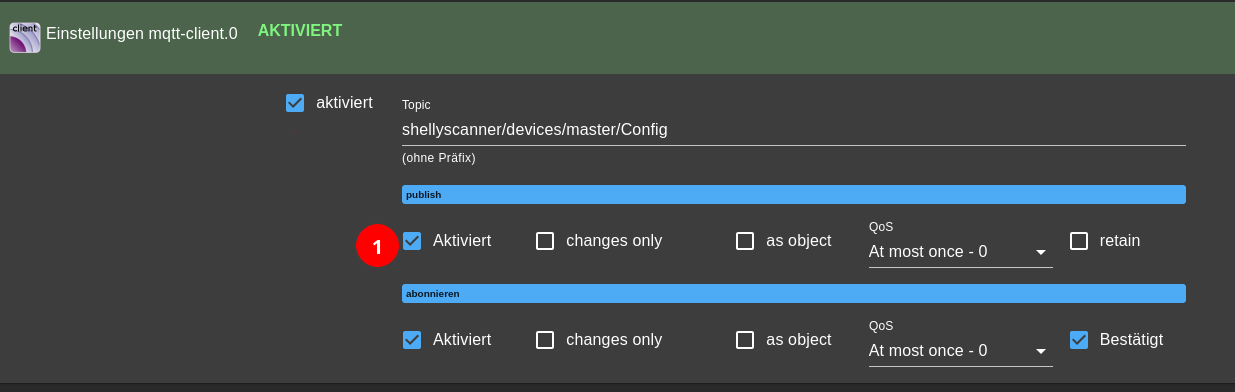
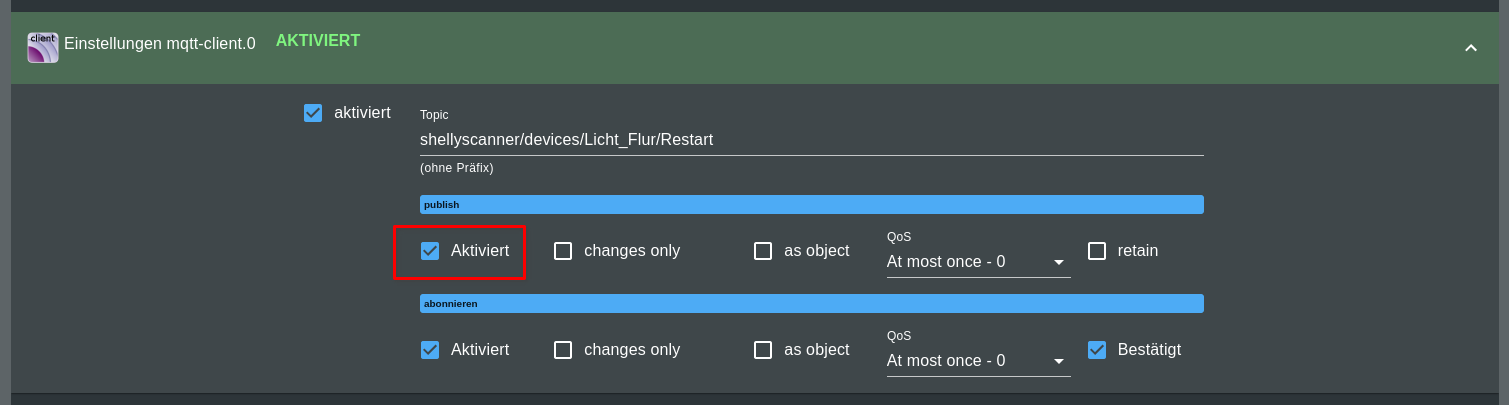
More detailed MQTT explanation

diff --git a/README.md b/README.md
@@ -35,13 +35,15 @@ Damit die States von ioBroker erkannt werden, muss unter der MQTT Instanz eine S
 
 ![ ](pictures/iobroker/010_iobroker_mqtt_subscriptions.png  "ioBroker MQTT")
 
-Für die Steuerung des Shelly, muss publish (1) in ioBroker für ausgehend States aktiviert werden. Hier ein Beispiel:
+Nachdem der Flashprozess - wie in den nachfolgenden Kapiteln beschrieben - durchgeführt wurde, kann die Steuerung des Shelly über die automatisch erstellten ioBroker States erfolgen. Für ausgehende States muss "publish" aktiviert werden. Hier ein Beispiel für einen beliebigen State:
 
-![ ](pictures/iobroker/030_iobroker_publish_config.png  "ioBroker publish")
+![ ](pictures/iobroker/025_iobroker_publish_Zahnrad.png  "ioBroker publish1")
+![ ](pictures/iobroker/030_iobroker_publish_config.png  "ioBroker publish2")
 
-Dies sollte für alle, außer nachfolgende States erledigt werden:
+Dies sollte für alle, außer den nachfolgenden States erledigt werden:
 
 * IP_Address (Zur Info, welche IP das Gerät hat)
+* Info (Boot-Zeit, FW-Version)
 * Message (Empfang von zuätzlichen Informationen)
 * Online (Anzeige des Online-Zustandes)
 * Switch1 und ggf. Switch2 (Anzeige ob Inputs am Shelly anliegen)
